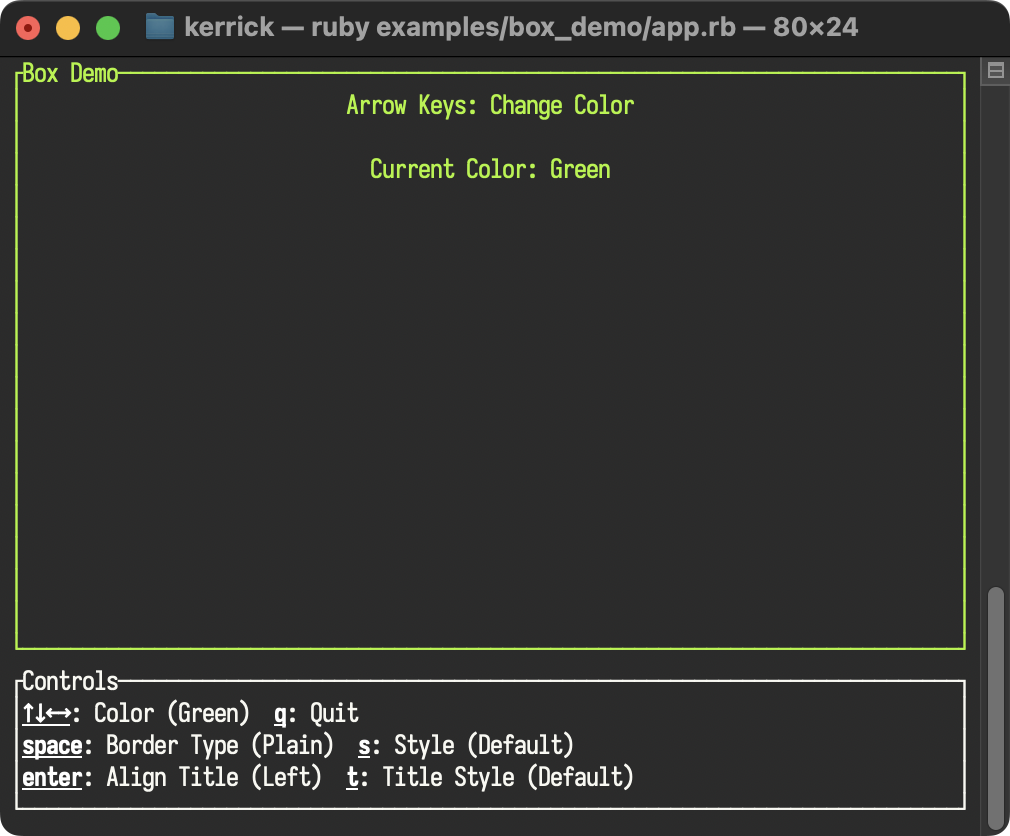
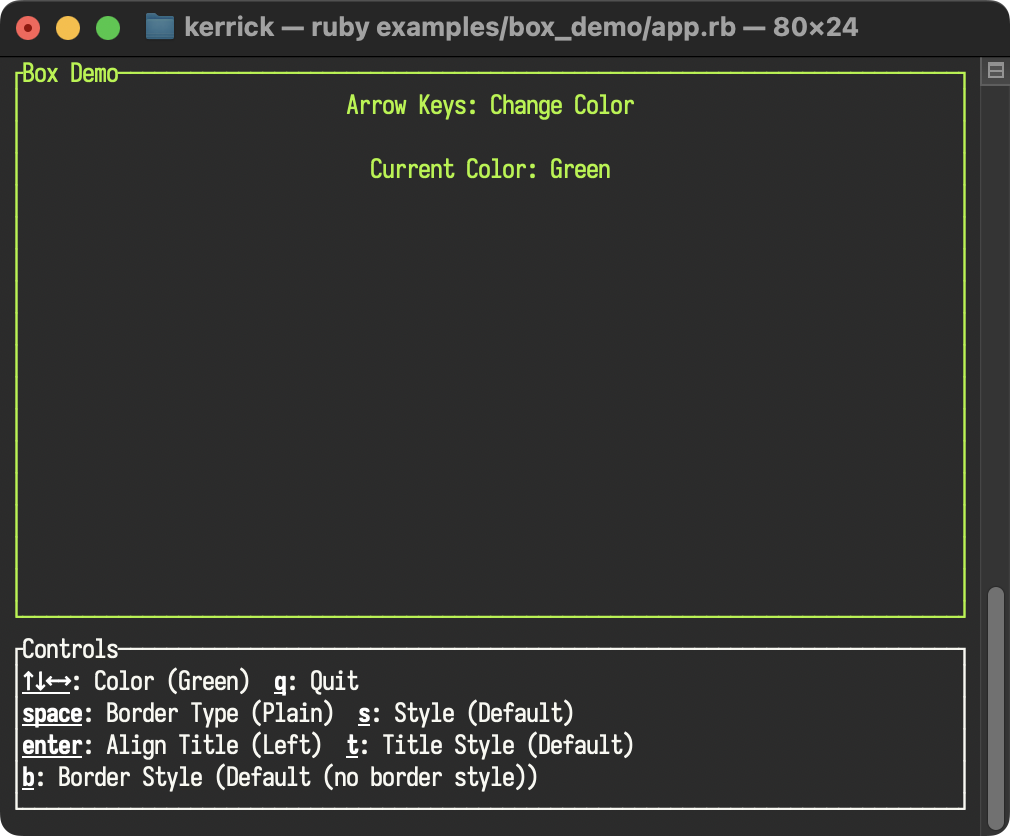
feat(block): add border_style parameter for full style support on borders
Add border_style parameter to Block widget, enabling colors and modifiers
(bold, italic, dim, etc.) on borders independently of content background.
Previously, only border_color was supported. The border_style parameter
accepts a Style object or Hash with fg, bg, and modifiers keys. When both
border_color and border_style are provided, border_style takes precedence,
maintaining backward compatibility.

Updates box_demo example to interactively cycle through border styles with
the 'b' key, demonstrating combinations like bold red and cyan italic
borders. Increases control panel height to accommodate the new control.

Generated with [Amp](https://ampcode.com)

Changed region(s): [[0.0, 0.7153, 0.9822, 0.9641]]

diff --git a/examples/box_demo/app.rb b/examples/box_demo/app.rb
@@ -45,6 +45,15 @@ class BoxDemoApp
       { name: "Yellow Bold Underlined", style: { fg: "yellow", modifiers: [:bold, :underlined] } }
     ]
     @title_style_index = 0
+
+    @border_styles = [
+      { name: "Default (no border style)", style: nil },
+      { name: "Bold Red", style: { fg: "red", modifiers: [:bold] } },
+      { name: "Cyan Italic", style: { fg: "cyan", modifiers: [:italic] } },
+      { name: "Magenta Dim", style: { fg: "magenta", modifiers: [:dim] } }
+    ]
+    @border_style_index = 0
+
     @hotkey_style = RatatuiRuby::Style.new(modifiers: [:bold, :underlined])
   end
 
@@ -66,9 +75,12 @@ class BoxDemoApp
     title_alignment_config = @title_alignments[@title_alignment_index]
     style_config = @styles[@style_index]
     title_style_config = @title_styles[@title_style_index]
+    border_style_config = @border_styles[@border_style_index]
 
     # 1. State/View
-    effective_border_color = style_config[:style] ? nil : color_config[:color]
+    # Use border_style if provided, otherwise fall back to border_color
+    effective_border_style = border_style_config[:style]
+    effective_border_color = effective_border_style ? nil : (style_config[:style] ? nil : color_config[:color])
 
     block = RatatuiRuby::Block.new(
       title: "Box Demo",
@@ -76,6 +88,7 @@ class BoxDemoApp
       title_style: title_style_config[:style],
       borders: [:all],
       border_color: effective_border_color,
+      border_style: effective_border_style,
       border_type: border_config[:type],
       style: style_config[:style]
     )
@@ -110,12 +123,17 @@ class BoxDemoApp
               RatatuiRuby::Text::Span.new(content: "s", style: @hotkey_style),
               RatatuiRuby::Text::Span.new(content: ": Style (#{style_config[:name]})")
             ]),
-            # Line 3: Title
+            # Line 3: Title alignment and style
             RatatuiRuby::Text::Line.new(spans: [
               RatatuiRuby::Text::Span.new(content: "enter", style: @hotkey_style),
               RatatuiRuby::Text::Span.new(content: ": Align Title (#{title_alignment_config[:name]})  "),
               RatatuiRuby::Text::Span.new(content: "t", style: @hotkey_style),
               RatatuiRuby::Text::Span.new(content: ": Title Style (#{title_style_config[:name]})")
+            ]),
+            # Line 4: Border style
+            RatatuiRuby::Text::Line.new(spans: [
+              RatatuiRuby::Text::Span.new(content: "b", style: @hotkey_style),
+              RatatuiRuby::Text::Span.new(content: ": Border Style (#{border_style_config[:name]})")
             ])
           ]
         )
@@ -127,7 +145,7 @@ class BoxDemoApp
       direction: :vertical,
       constraints: [
         RatatuiRuby::Constraint.fill(1),
-        RatatuiRuby::Constraint.length(5),
+        RatatuiRuby::Constraint.length(6),
       ],
       children: [main_panel, control_panel]
     )
@@ -157,6 +175,8 @@ class BoxDemoApp
       @style_index = (@style_index + 1) % @styles.size
     in type: :key, code: "t"
       @title_style_index = (@title_style_index + 1) % @title_styles.size
+    in type: :key, code: "b"
+      @border_style_index = (@border_style_index + 1) % @border_styles.size
     else
       nil
     end

diff --git a/lib/ratatui_ruby/schema/block.rb b/lib/ratatui_ruby/schema/block.rb
@@ -24,7 +24,7 @@ module RatatuiRuby
     #     style: Style.new(fg: :yellow),
     #     padding: [1, 1, 0, 0] # Left, Right, Top, Bottom
     #   )
-    class Block < Data.define(:title, :titles, :title_alignment, :title_style, :borders, :border_color, :border_type, :style, :padding, :children)
+    class Block < Data.define(:title, :titles, :title_alignment, :title_style, :borders, :border_color, :border_style, :border_type, :style, :padding, :children)
       ##
       # :attr_reader: title
       # The main title displayed on the top border.
@@ -74,6 +74,16 @@ module RatatuiRuby
       ##
       # :attr_reader: border_color
       # Color of the border lines.
+      #
+      # Deprecated: Use <tt>border_style:</tt> instead for full style support.
+
+      ##
+      # :attr_reader: border_style
+      # Full style (colors/modifiers) for the border lines.
+      #
+      # A Style object or Hash with <tt>:fg</tt>, <tt>:bg</tt>, and <tt>:modifiers</tt>.
+      # This allows borders to be bold, italic, colored, etc. If both <tt>border_color</tt>
+      # and <tt>border_style</tt> are provided, <tt>border_style</tt> takes precedence.
 
       ##
       # :attr_reader: border_type
@@ -123,7 +133,9 @@ module RatatuiRuby
       # [borders]
       #   Array of borders to show: <tt>:top</tt>, <tt>:bottom</tt>, <tt>:left</tt>, <tt>:right</tt>, or <tt>:all</tt> (default).
       # [border_color]
-      #   Color string or symbol (e.g., <tt>:red</tt>).
+      #   Color string or symbol (e.g., <tt>:red</tt>). Deprecated: use <tt>border_style</tt> instead.
+      # [border_style]
+      #   Style object or Hash for the border lines.
       # [border_type]
       #   Symbol: <tt>:plain</tt> (default), <tt>:rounded</tt>, <tt>:double</tt>, <tt>:thick</tt>, <tt>:hidden</tt>, <tt>:quadrant_inside</tt>, <tt>:quadrant_outside</tt>.
       # [style]
@@ -132,7 +144,7 @@ module RatatuiRuby
       #   Integer (uniform) or Array[4] (left, right, top, bottom).
       # [children]
       #   Array of widgets to render inside the block (optional).
-      def initialize(title: nil, titles: [], title_alignment: nil, title_style: nil, borders: [:all], border_color: nil, border_type: nil, style: nil, padding: 0, children: [])
+      def initialize(title: nil, titles: [], title_alignment: nil, title_style: nil, borders: [:all], border_color: nil, border_style: nil, border_type: nil, style: nil, padding: 0, children: [])
         super
       end
     end

diff --git a/ext/ratatui_ruby/src/style.rs b/ext/ratatui_ruby/src/style.rs
@@ -114,6 +114,7 @@ pub fn parse_block(block_val: Value) -> Result<Block<'static>, Error> {
     let title_style_val: Value = block_val.funcall("title_style", ())?;
     let borders_val: Value = block_val.funcall("borders", ())?;
     let border_color: Value = block_val.funcall("border_color", ())?;
+    let border_style_val: Value = block_val.funcall("border_style", ())?;
     let border_type_val: Value = block_val.funcall("border_type", ())?;
     let style_val: Value = block_val.funcall("style", ())?;
     let padding_val: Value = block_val.funcall("padding", ())?;
@@ -232,7 +233,12 @@ pub fn parse_block(block_val: Value) -> Result<Block<'static>, Error> {
         block = block.borders(ratatui_borders);
     }
 
-    if !border_color.is_nil() {
+    // Apply border style. If both border_style and border_color are provided, border_style takes precedence.
+    if !border_style_val.is_nil() {
+        let border_style = crate::style::parse_style(border_style_val)?;
+        block = block.border_style(border_style);
+    } else if !border_color.is_nil() {
+        // Fallback to border_color for backward compatibility
         let color_str: String = border_color.funcall("to_s", ())?;
         if let Some(color) = parse_color(&color_str) {
             block = block.border_style(Style::default().fg(color));

diff --git a/examples/box_demo/test_app.rb b/examples/box_demo/test_app.rb
@@ -75,4 +75,14 @@ class TestBoxDemo < Minitest::Test
       assert buffer_content.any? { |line| line.include?("Controls") }
     end
   end
+
+  def test_border_style_cycling
+    with_test_terminal do
+      inject_keys(:b, :q)
+      @app.run
+
+      # At least the Controls section should be rendered
+      assert buffer_content.any? { |line| line.include?("Controls") }
+    end
+  end
 end

diff --git a/CHANGELOG.md b/CHANGELOG.md
@@ -11,6 +11,7 @@ This project adheres to [Semantic Versioning](https://semver.org/spec/v2.0.0.htm
 
 ### Added
 
+- **Block Border Style**: Added `border_style` parameter to the `Block` widget, enabling full style support (colors and modifiers) for borders. Previously, only `border_color` was supported. The `border_style` parameter accepts a `Style` object or Hash with `fg`, `bg`, and `modifiers` keys, allowing borders to be bold, italic, colored, or any combination thereof. When both `border_color` and `border_style` are provided, `border_style` takes precedence. The `box_demo` example now demonstrates cycling through border styles with the `b` key.
 - **List Scroll Padding**: Added `scroll_padding` parameter to the `List` widget. This parameter controls how many items remain visible above and below the selected item when scrolling through a long list. When set to a positive integer (e.g., `1` or `2`), the list keeps neighboring items visible during navigation, improving UX when browsing large datasets. The `list_demo` example now demonstrates this feature with the `p` key.
 - **Sparkline Absent Value Styling**: Added `absent_value_symbol` and `absent_value_style` parameters to the `Sparkline` widget. The data array now accepts `Integer` or `nil`. A `nil` value marks an absent value (distinct from `0`), allowing clear visual distinction between missing data and low values. The `absent_value_symbol` parameter customizes the character displayed for absent values (default is space), while `absent_value_style` controls their styling.
 - **Sparkline Demo Example**: New `sparkline_demo` example demonstrates the `Sparkline` widget comprehensively with interactive attribute cycling (data set, direction, color, absent value marker, and marker style). Follows the developing_examples.md pattern with a sidebar for hotkey documentation.

diff --git a/doc/quickstart.md b/doc/quickstart.md
@@ -149,7 +149,7 @@ Demonstrates the `Block` widget's ability to render multiple titles with individ
 
 ### [Box Demo](https://git.sr.ht/~kerrick/ratatui_ruby/tree/main/item/examples/box_demo/app.rb)
 
-A simple demonstration of `Block` and `Paragraph` widgets, reacting to key presses to change colors, border styles, and title styling (`title_style`).
+A simple demonstration of `Block` and `Paragraph` widgets, reacting to key presses to change colors, border types, border styles, and title styling. Features the new `border_style` parameter for applying colors and modifiers (bold, italic) to borders independently of the content background.
 
 ![box_demo](./images/box_demo.png)
 
